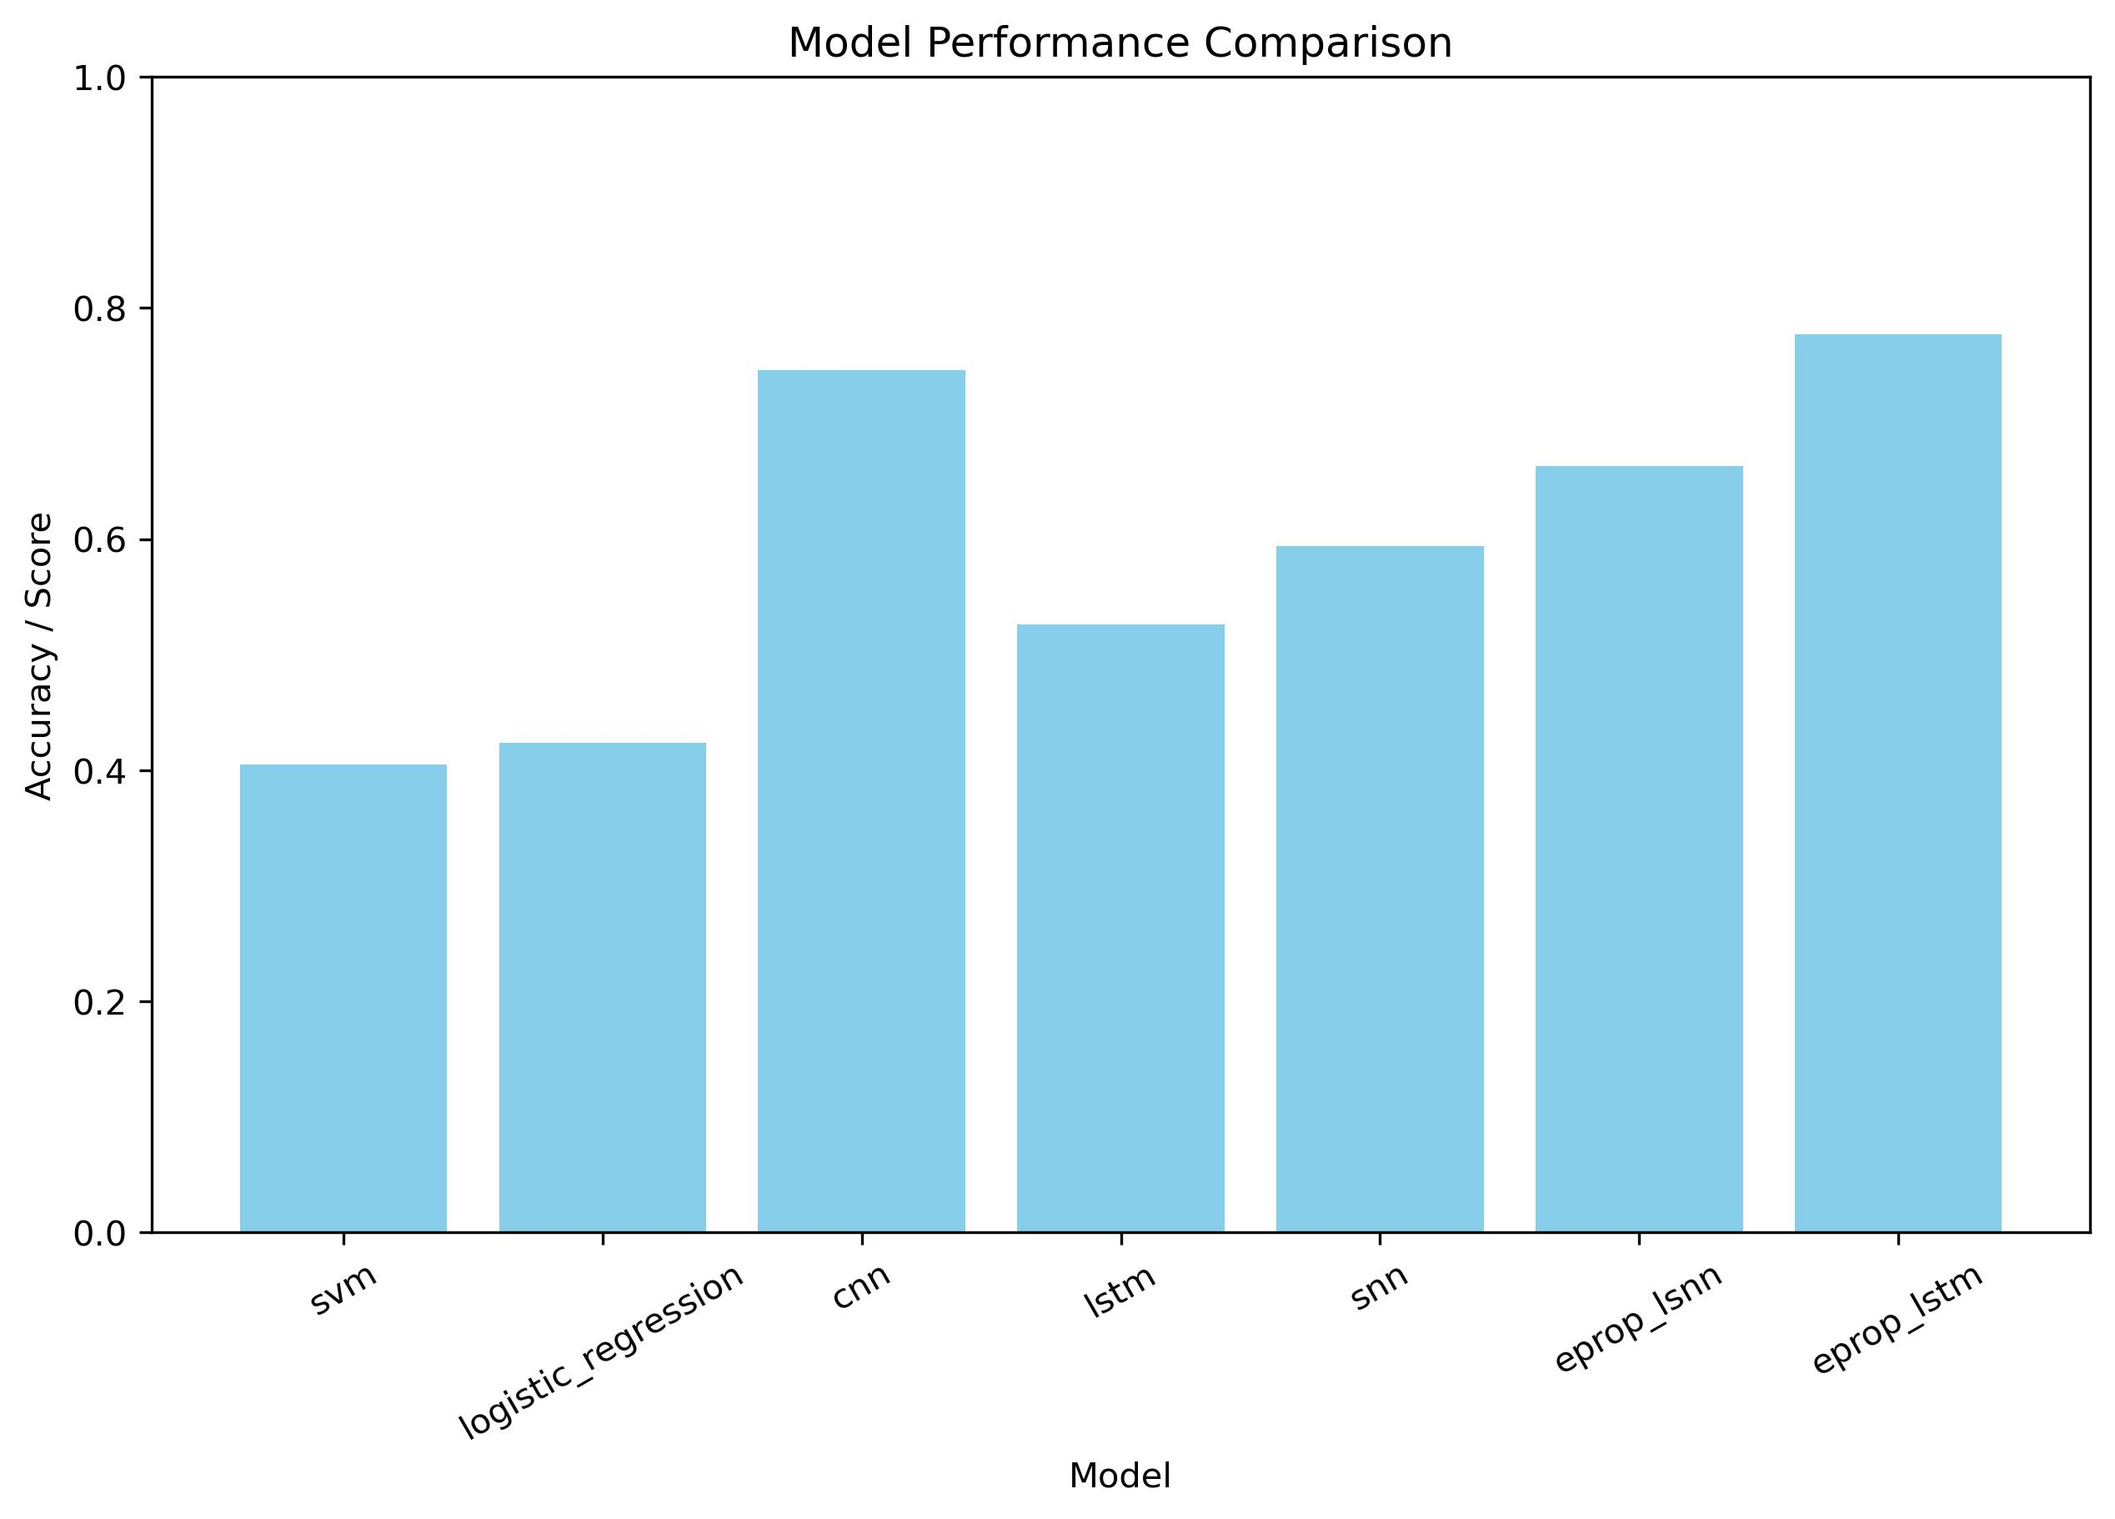
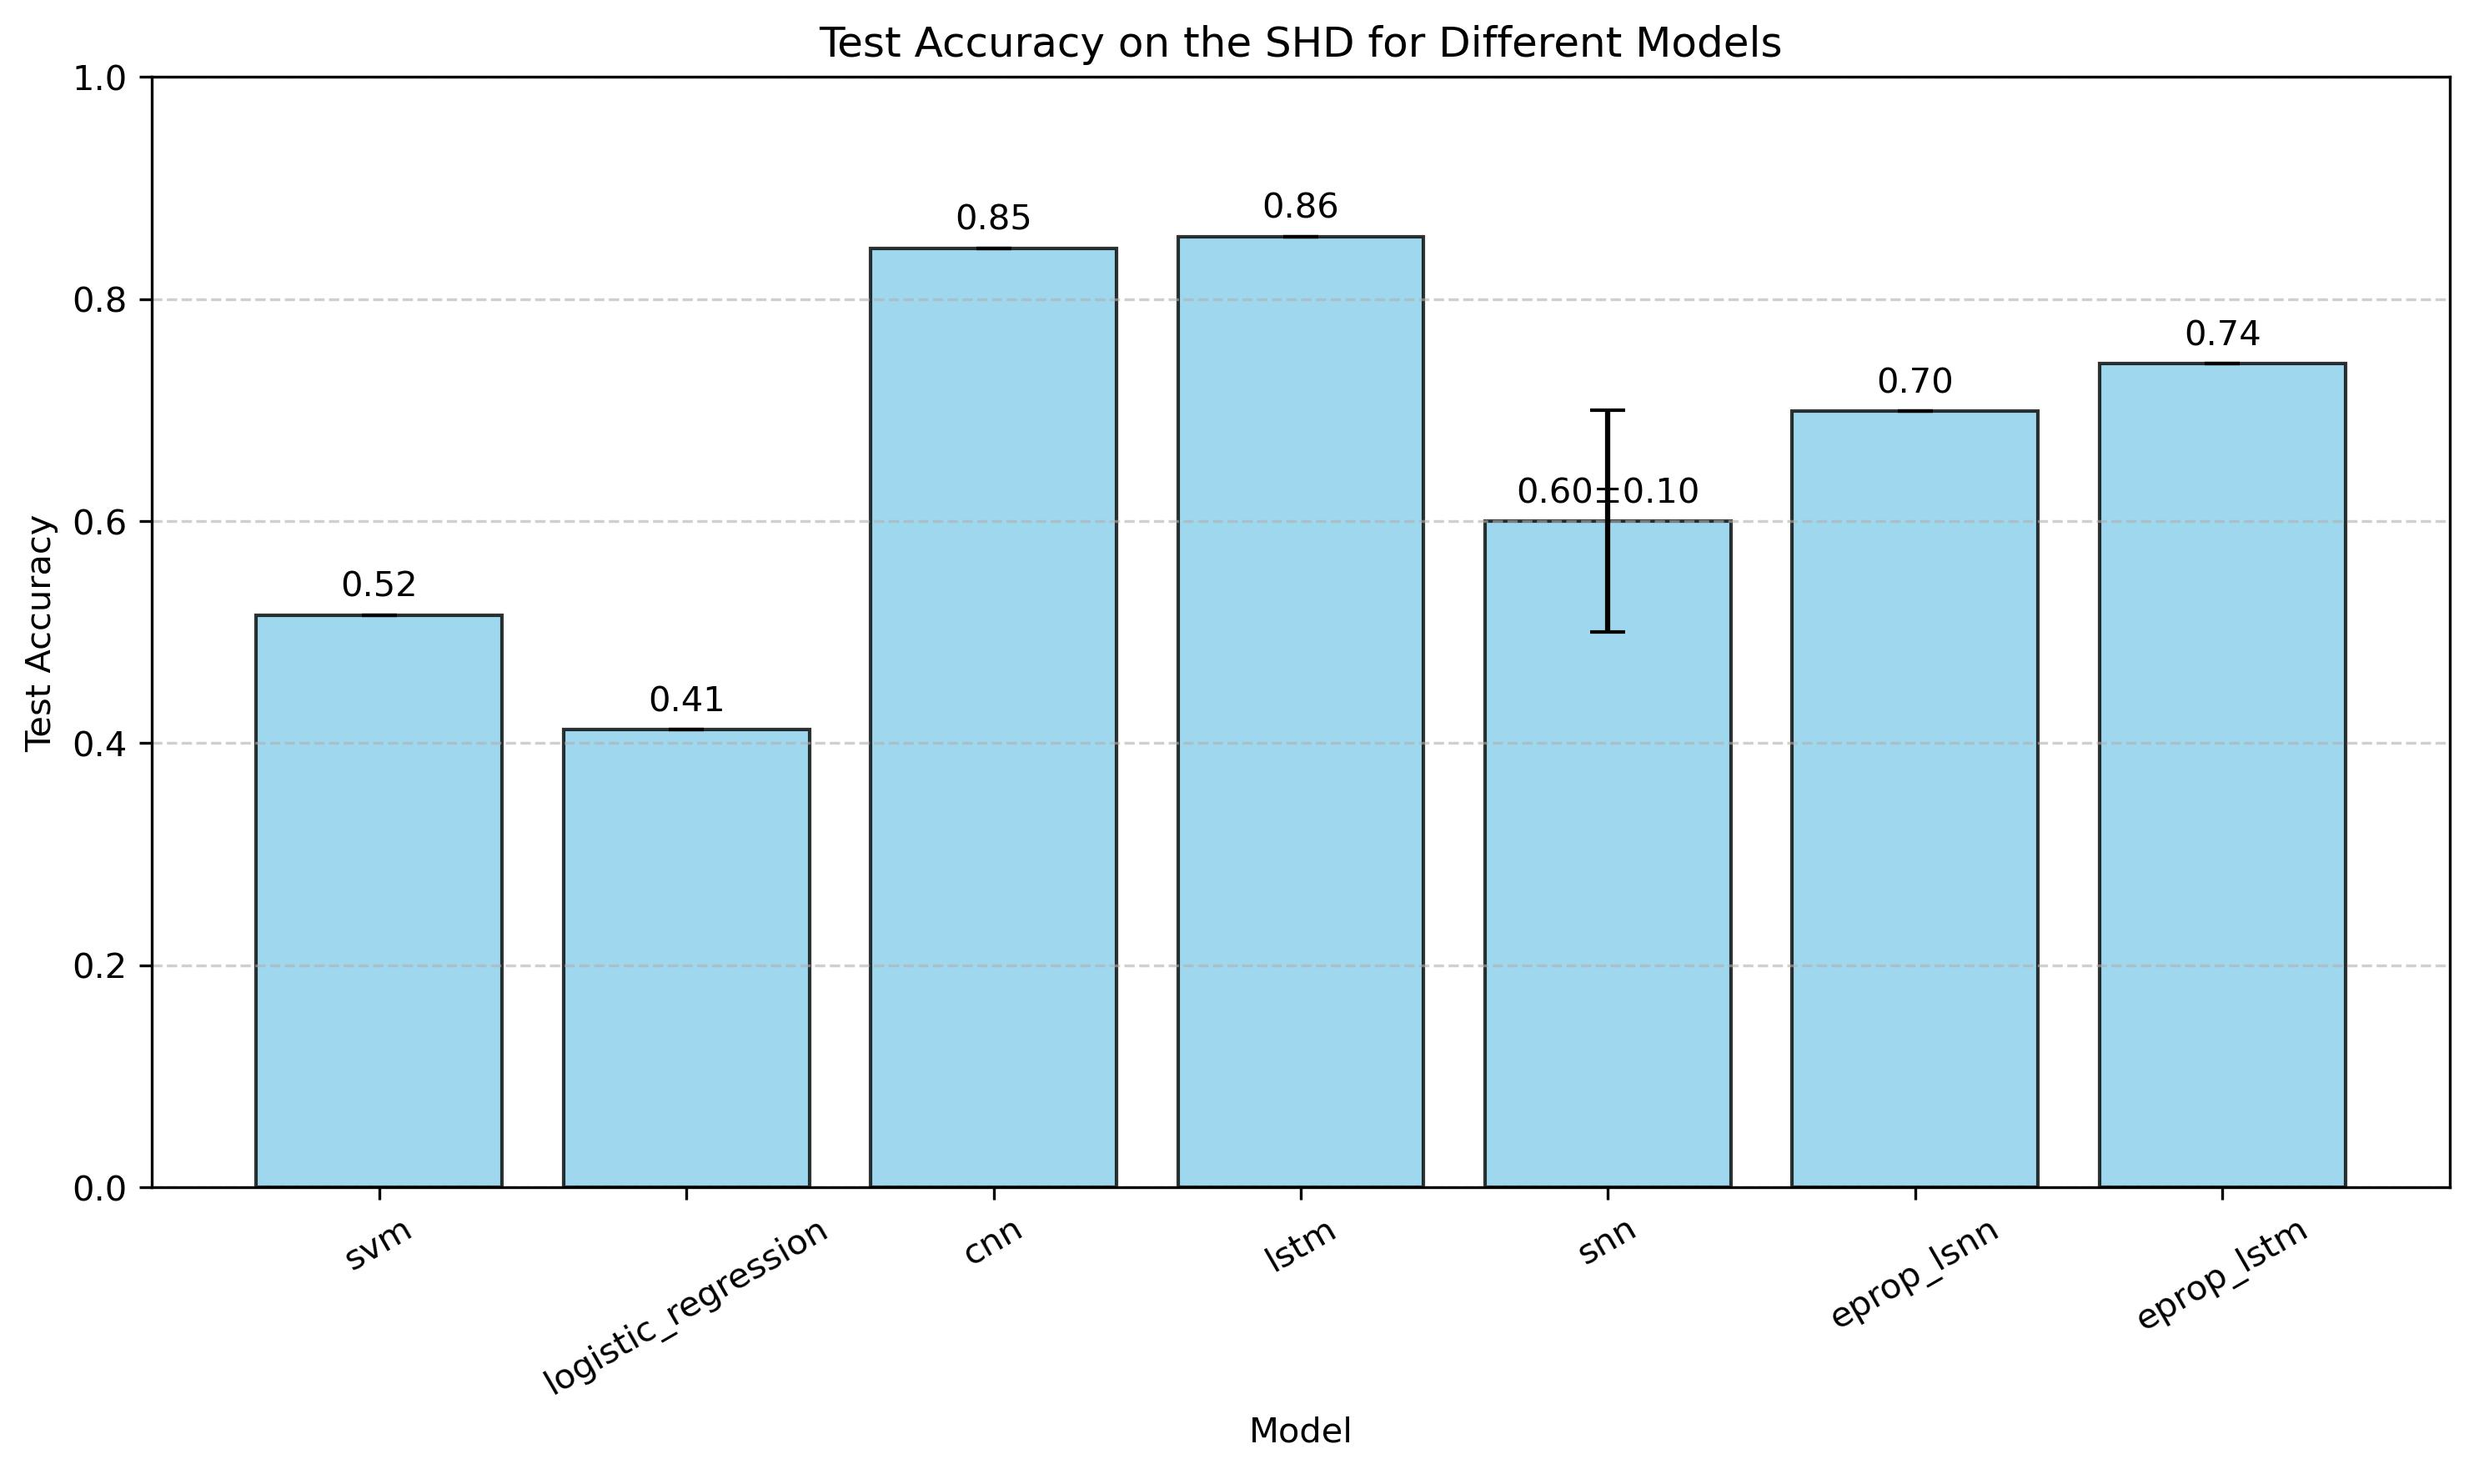
improve plot, setup multiple weight init

diff --git a/heidelberg_implementation/pipeline.py b/heidelberg_implementation/pipeline.py
@@ -1,10 +1,9 @@
-# TODO: setup pipeline and interfaces
-# TODO: create plots
 # TODO: vary weight initialization and average results + std
 # TODO: unify environments
 # TODO: how to portability
 
 import matplotlib.pyplot as plt
+import numpy as np
 from deep_learning.run_cnn import run_cnn
 from deep_learning.run_lstm import run_lstm
 from eprop.solve_hdd_with_lsnn import run_eprop_lsnn
@@ -15,27 +14,53 @@ from spiking_neural_networks.run_snn import run_snn
 from util.create_data_loader import create_data_loader, create_data_loader_deep_models
 
 
-def create_result_plot(results):
+def plot_model_results(results, save_path="./output/experiment_all_methods/result.jpg"):
     models = list(results.keys())
-    values = list(results.values())
+    means = []
+    stds = []
+
+    for v in results.values():
+        if isinstance(v, dict):
+            means.append(v.get("mean", np.nan))
+            stds.append(v.get("std", 0))
+        else:
+            means.append(v)
+            stds.append(0)
 
     plt.figure(figsize=(10, 6))
-    plt.bar(models, values, color="skyblue")
-
-    plt.xlabel("Model")
-    plt.ylabel("Accuracy / Score")
-    plt.title("Model Performance Comparison")
-    plt.ylim(0, 1)
-
-    plt.xticks(rotation=30)
-
-    plt.savefig(
-        "./output/experiment_all_methods/result.jpg",
-        format="jpg",
-        dpi=300,
-        bbox_inches="tight",
+    bars = plt.bar(
+        models,
+        means,
+        yerr=stds,
+        capsize=5,
+        alpha=0.8,
+        color="skyblue",
+        edgecolor="black",
     )
 
+    for bar, mean, std in zip(bars, means, stds):
+        yval = bar.get_height()
+        label = f"{mean:.2f}"
+        if std > 0:
+            label += f"±{std:.2f}"
+        plt.text(
+            bar.get_x() + bar.get_width() / 2,
+            yval + 0.01,
+            label,
+            ha="center",
+            va="bottom",
+            fontsize=10,
+        )
+
+    plt.xlabel("Model")
+    plt.ylabel("Test Accuracy")
+    plt.title("Test Accuracy on the SHD for Different Models")
+    plt.ylim(0, 1)
+    plt.xticks(rotation=30)
+    plt.grid(axis="y", linestyle="--", alpha=0.6)
+
+    plt.tight_layout()
+    plt.savefig(save_path, format="jpg", dpi=300, bbox_inches="tight")
     plt.show()
 
 
@@ -69,17 +94,24 @@ if __name__ == "__main__":
     lstm_acc = run_lstm(train_data_loader_lstm, test_data_loader_lstm)
     results["lstm"] = lstm_acc
 
-    print("######### SNN #########")
-    snn_acc = run_snn(
-        train_data_loader,
-        test_data_loader,
-        number_hidden_neurons=3000,
-        number_hidden_layer=2,
-        beta=0.99,
-        threshold=1,
-        num_epochs=30,
-    )
-    results["snn"] = snn_acc
+    averaged_snn_acc_different_parameter_initialization = []
+    for i in range(5):
+        print(f"####### SNN {i}/5 #######")
+        snn_acc = run_snn(
+            train_data_loader,
+            test_data_loader,
+            number_hidden_neurons=3000,
+            number_hidden_layer=2,
+            beta=0.99,
+            threshold=1,
+            num_epochs=30,
+        )
+        averaged_snn_acc_different_parameter_initialization.append(snn_acc)
+    snn_key = f"snn\n2 layer\n3000 neurons"
+    results[snn_key] = {
+        "mean": np.mean(averaged_snn_acc_different_parameter_initialization),
+        "std": np.std(averaged_snn_acc_different_parameter_initialization),
+    }
 
     print("######### E-Prop LSNN #########")
     eprop_lsnn_acc = run_eprop_lsnn()
@@ -91,4 +123,4 @@ if __name__ == "__main__":
 
     print("Results", results)
 
-    create_result_plot(results)
+    plot_model_results(results)

diff --git a/heidelberg_implementation/neural_nets/configurable_spiking_neural_net.py b/heidelberg_implementation/neural_nets/configurable_spiking_neural_net.py
@@ -59,6 +59,13 @@ class ConfigurableSpikingNeuralNet(nn.Module):
         )
 
         self.linears = nn.ModuleList(layers)
+        self._initialize_weights()
+
+    def _initialize_weights(self):
+        for m in self.modules():
+            if isinstance(m, nn.Linear):
+                nn.init.kaiming_normal_(m.weight, nonlinearity="relu")
+                nn.init.zeros_(m.bias)
 
     def forward(self, x):
         mems = []
